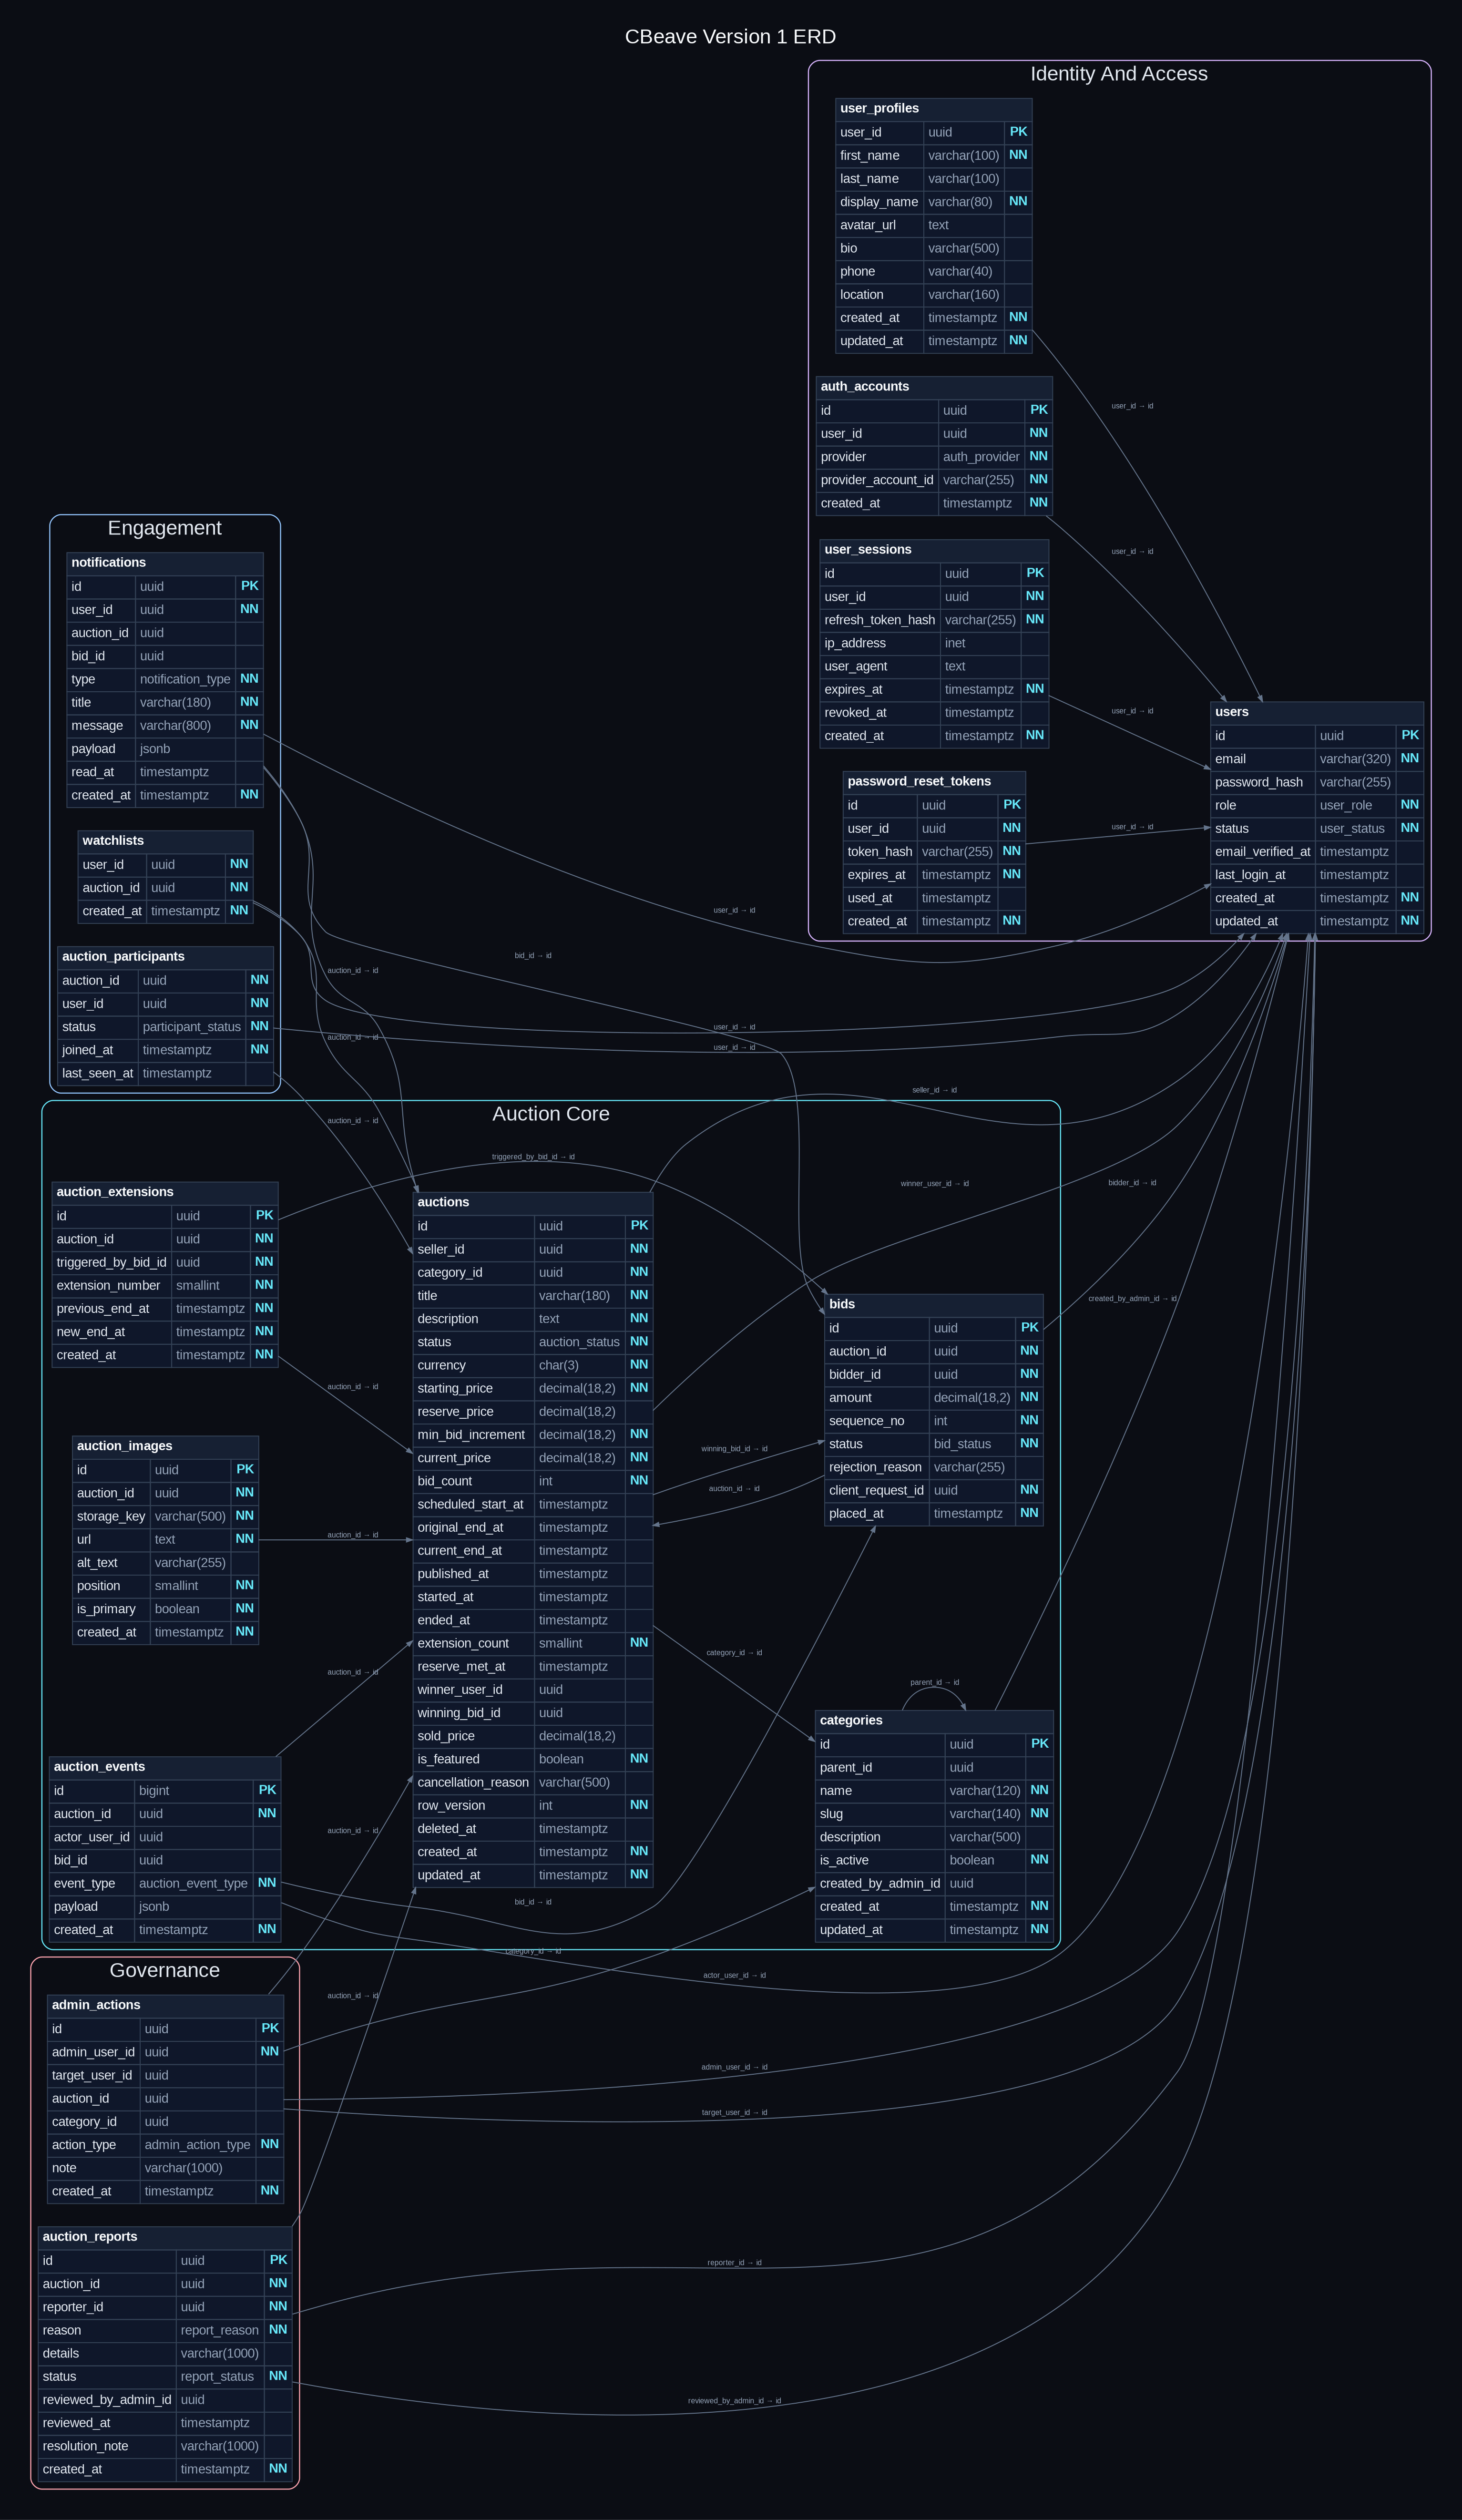
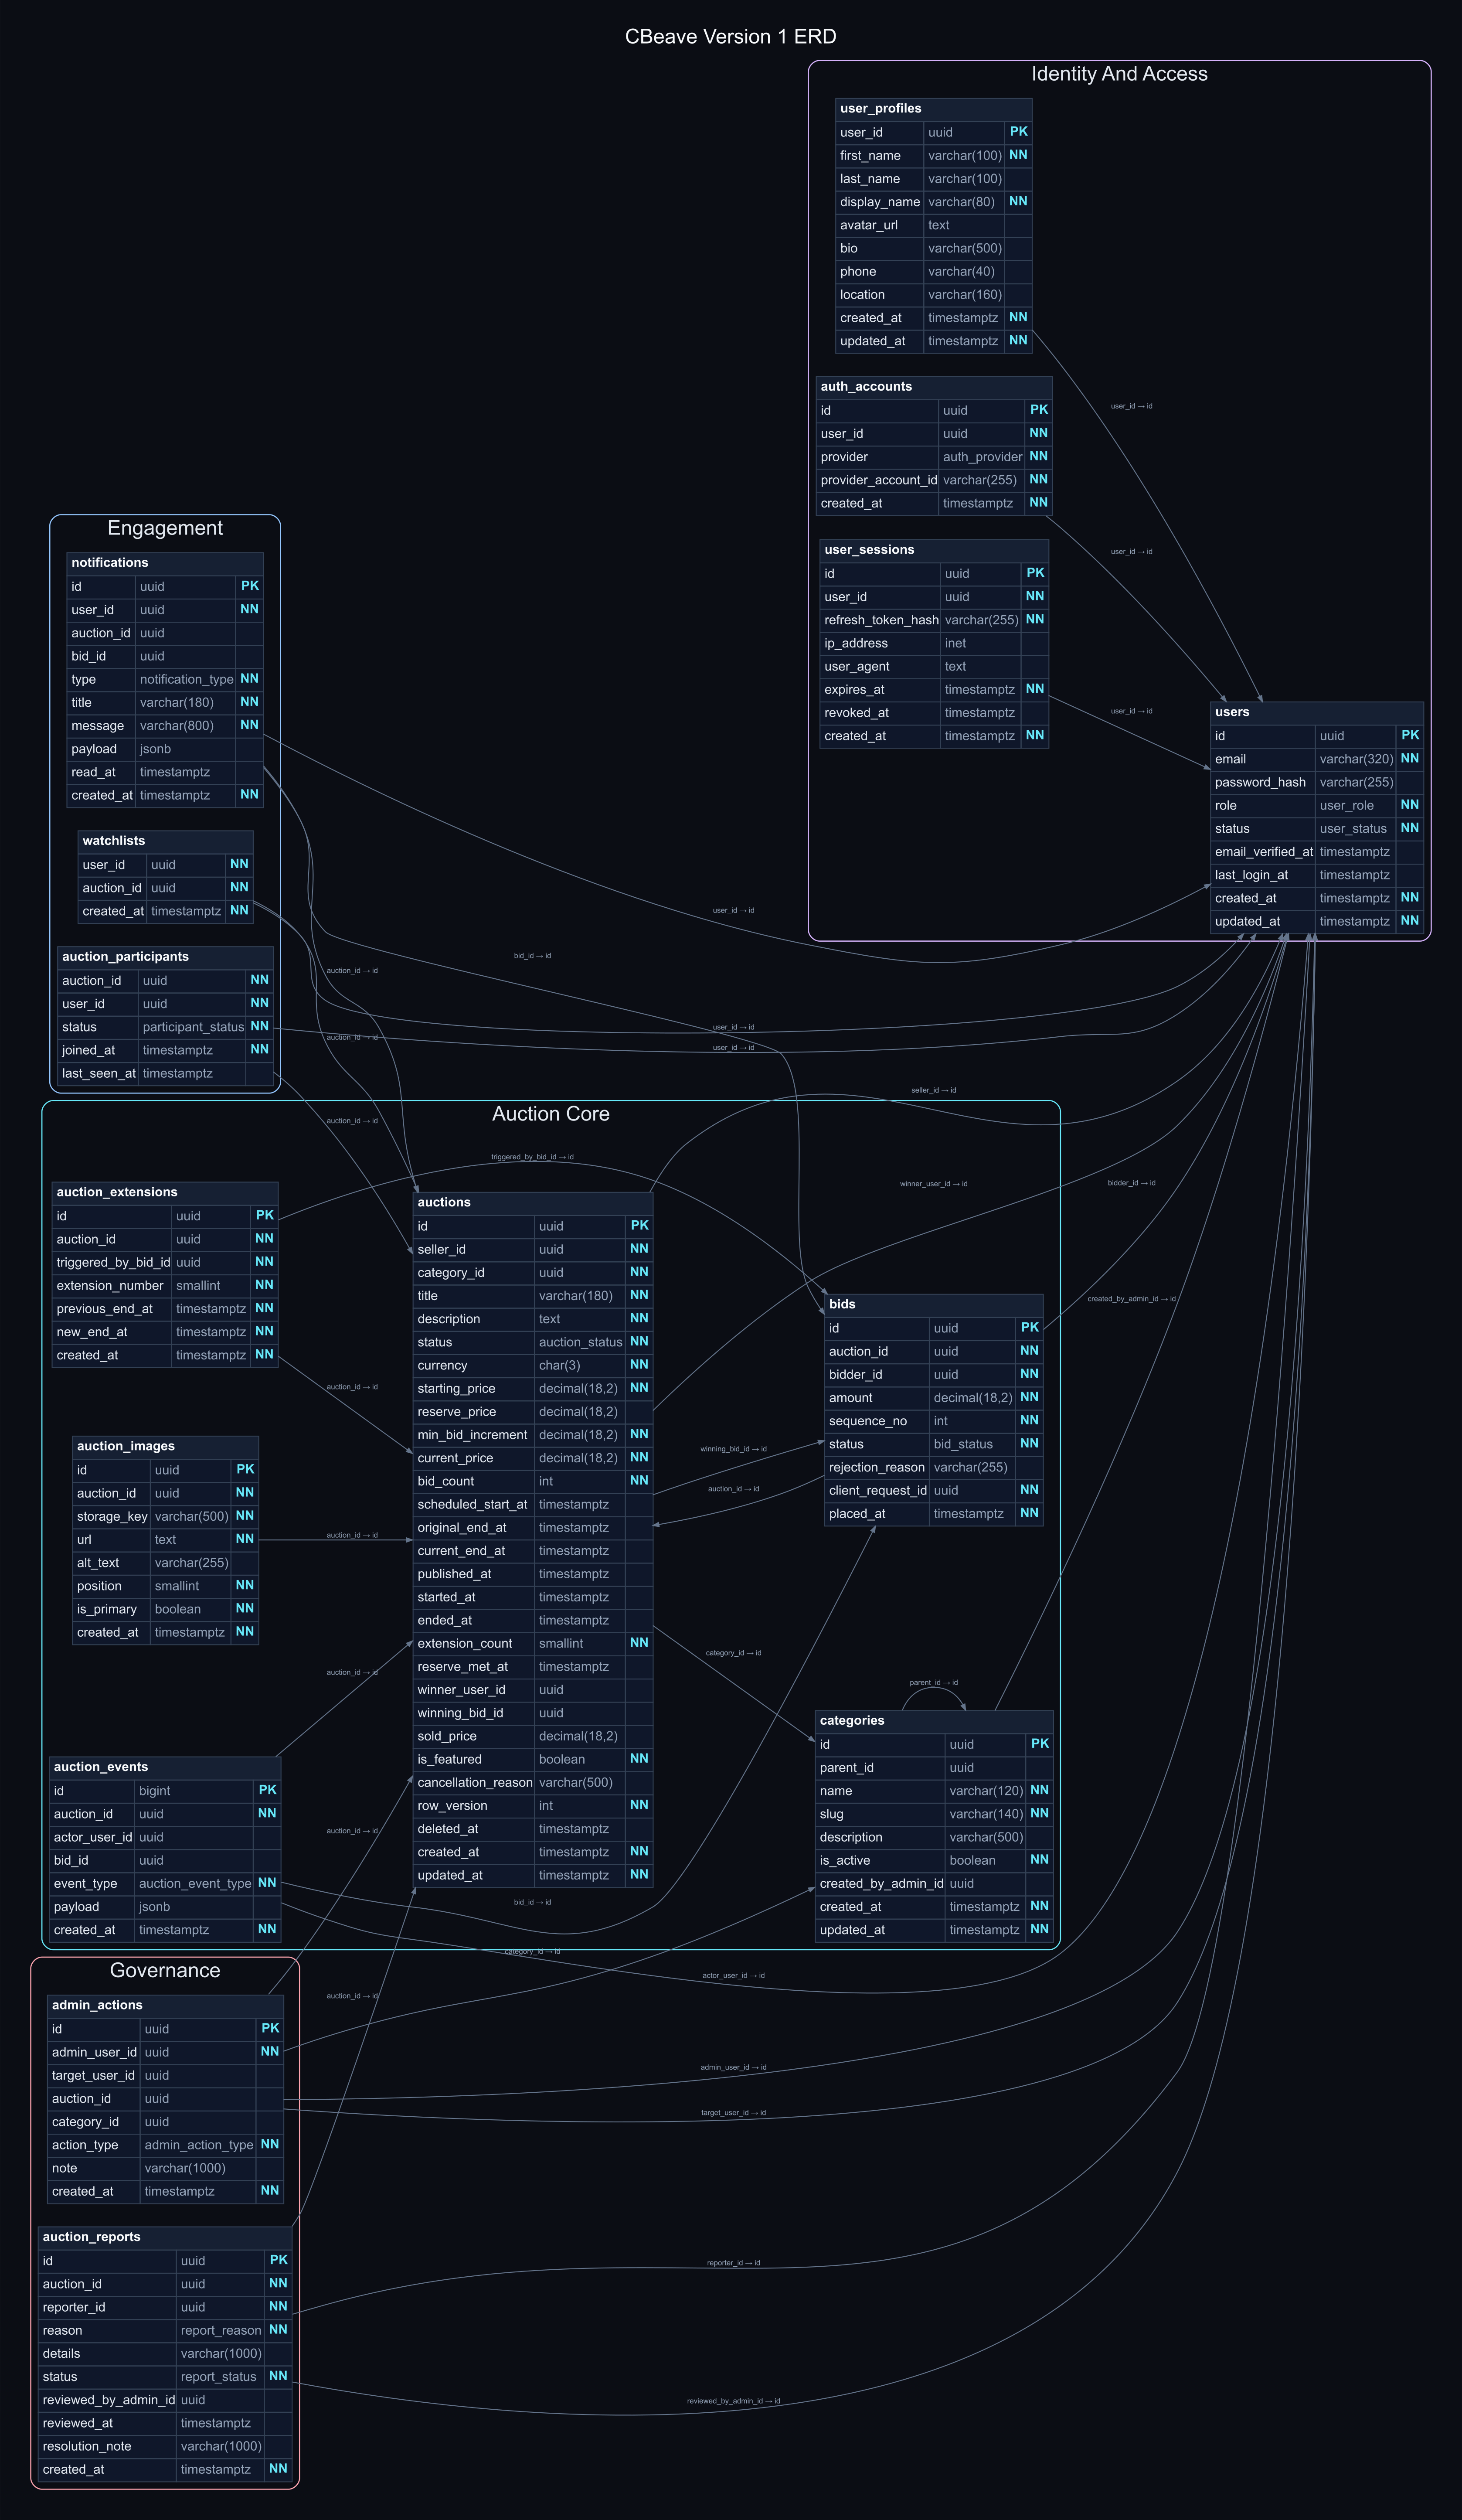
docs: simplify v1 authentication and moderation scope

diff --git a/docs/architecture/adr/0001-core-domain-decisions.md b/docs/architecture/adr/0001-core-domain-decisions.md
@@ -18,6 +18,7 @@ The original SRS, Figma prototype, Version 1 ERD, and full future-state ERD used
 - A User cannot bid on an auction they own.
 - An Admin cannot create marketplace auctions or bid.
 - Version 1 supports email/password and Google login only.
+- Forgot-password recovery and external reset-email delivery are deferred beyond Version 1.
 - User profiles store required `first_name` and optional `last_name`; a separate editable `full_name` is not persisted.
 - The application derives full name when needed, while `display_name` remains the independent public identity used in auctions and Live Arena.
 
@@ -47,9 +48,15 @@ The original SRS, Figma prototype, Version 1 ERD, and full future-state ERD used
 
 The delivery includes Google login, Watchlist, in-app outbid notification, a bounded polished Live Arena, and auction reporting.
 
+### Administration and audit
+
+- Version 1 audit actions cover user suspension/reactivation, auction cancellation, category creation/update/deactivation, and report resolution.
+- Categories referenced by auctions are deactivated rather than destructively deleted.
+- Auction reinstatement is deferred because Version 1 does not define a safe reinstatement transition after cancellation, scheduling, or bidding activity.
+
 ### Deferred architecture
 
-The complete ERD remains a future-state reference. Payments, orders, shipping, payouts, disputes, messaging, reviews, storefronts, multi-channel notifications, mobile apps, and advanced analytics are not implemented in this milestone.
+The complete ERD remains a future-state reference. Password recovery, external email delivery, payments, orders, shipping, payouts, disputes, messaging, reviews, storefronts, multi-channel notifications, mobile apps, and advanced analytics are not implemented in this milestone.
 
 ## Consequences
 
@@ -63,7 +70,7 @@ The complete ERD remains a future-state reference. Payments, orders, shipping, p
 
 ### Trade-offs
 
-- Facebook login and Buy Now are postponed.
+- Facebook login, password recovery, external email delivery, and Buy Now are postponed.
 - Live Arena polish is bounded by time and accessibility.
 - Auction reports are moderation reports, not analytical reports.
 - The future ERD may change before its modules are implemented.

diff --git a/docs/requirements/SRS-v1.1.md b/docs/requirements/SRS-v1.1.md
@@ -70,7 +70,7 @@ An Administrator may not:
 
 ### 3.1 Required capabilities
 
-- Email/password registration, login, logout, password reset, and JWT sessions
+- Email/password registration, login, logout, and JWT sessions
 - Google login
 - User profile management
 - Category browsing and administrator category management
@@ -92,6 +92,7 @@ An Administrator may not:
 ### 3.2 Explicit exclusions
 
 - Facebook login
+- Forgot-password recovery and external reset-email delivery
 - Buy Now
 - Payments, refunds, disputes, and seller payouts
 - Orders and shipping
@@ -137,9 +138,9 @@ A User can register or log in through Google. A Google identity must be linked u
 
 Refresh tokens must be stored as hashes, have an expiry, and support revocation on logout.
 
-### AUTH-005 — Password reset
+### AUTH-005 — Password reset (Deferred)
 
-A local account can request and complete a time-limited, single-use password reset.
+Forgot-password recovery is deferred beyond Version 1 because the release does not include external email delivery. Version 1 must not expose reset tokens through API responses or production logs. Authenticated password changes may be added separately without introducing email-based recovery.
 
 ## 6. User profile requirements
 

diff --git a/docs/architecture/erd/comparison.md b/docs/architecture/erd/comparison.md
@@ -7,7 +7,7 @@
 
 ## Version 1 tables
 
-- Identity: `users`, `user_profiles`, `auth_accounts`, `user_sessions`, `password_reset_tokens`
+- Identity: `users`, `user_profiles`, `auth_accounts`, `user_sessions`
 - Auction core: `categories`, `auctions`, `auction_images`, `bids`, `auction_extensions`, `auction_events`
 - Engagement: `watchlists`, `auction_participants`, `notifications`
 - Governance: `auction_reports`, `admin_actions`
@@ -16,12 +16,14 @@
 
 - Only `USER` and `ADMIN` are persisted roles.
 - Google is the only social provider in scope.
+- Forgot-password recovery and external reset-email delivery are deferred.
 - Preview and Publish are not statuses.
 - Canonical statuses are Draft, Scheduled, Active, Sold, Unsold, and Cancelled.
 - Minimum bid increment is required.
 - Reserve amount is private.
 - Buy Now is absent from the Version 1 model.
 - Auction reports mean trust-and-safety reports, not analytics reports.
+- Administrator audit actions use category deactivation rather than deletion, and auction reinstatement is deferred.
 
 ## Future-only domains
 
@@ -31,6 +33,7 @@
 - Shipping and tracking
 - Messaging and reviews
 - Multi-channel notification delivery
+- Forgot-password recovery and `password_reset_tokens`
 - Seller storefronts
 - Advanced analytics
 

diff --git a/docs/requirements/REQUIREMENTS_TRACEABILITY.md b/docs/requirements/REQUIREMENTS_TRACEABILITY.md
@@ -5,13 +5,14 @@ Status values:
 - **Planned** — not implemented yet
 - **In progress** — implementation started
 - **Verified** — acceptance test passes
+- **Deferred** — intentionally outside the current implementation scope
 
 | Requirement | Priority | ERD tables | Planned backend location | Planned frontend location | Verification | Status |
 |---|:---:|---|---|---|---|---|
 | AUTH-001 Local registration | P0 | `users`, `user_profiles.first_name`, `user_profiles.last_name`, `user_profiles.display_name` | `apps/api/src/auth` | `apps/web/app/(auth)` | Registration E2E including single-name and two-part-name cases | Planned |
 | AUTH-002 Local login | P0 | `users`, `user_sessions` | `apps/api/src/auth` | `apps/web/app/(auth)` | Login/session E2E | Planned |
 | AUTH-003 Google login | P1 | `users`, `auth_accounts`, `user_sessions` | `apps/api/src/auth/google` | Google auth callback | Google login integration | Planned |
-| AUTH-005 Password reset | P0 | `password_reset_tokens` | `apps/api/src/auth/password-reset` | Forgot/reset pages | Token expiry/reuse tests | Planned |
+| AUTH-005 Password reset | Deferred | Future-state `password_reset_tokens` | Not planned for V1 | Not planned for V1 | Future requirement | Deferred |
 | USR-001 Profile | P0 | `user_profiles.first_name`, `user_profiles.last_name`, `user_profiles.display_name` | `apps/api/src/users` | Profile page | Profile update and derived-full-name tests | Planned |
 | CAT-001 Category management | P0 | `categories`, `admin_actions` | `apps/api/src/categories` | Browse/admin category UI | CRUD and deactivation tests | Planned |
 | AUC-001 Create draft | P0 | `auctions`, `auction_images` | `apps/api/src/auctions` | Create auction flow | Draft ownership E2E | Planned |

diff --git a/CHANGELOG.md b/CHANGELOG.md
@@ -25,6 +25,8 @@ The format follows Keep a Changelog principles. Product releases will use semant
 - Replaced persisted `user_profiles.full_name` with required `first_name` and optional `last_name`; full name is derived while `display_name` remains the public identity.
 - Limited Version 1 social authentication to Google login.
 - Added Watchlist, in-app outbid notification, bounded Live Arena polish, and auction reporting to the one-month scope.
+- Deferred forgot-password recovery and external reset-email delivery; removed `password_reset_tokens` and `RESET_PASSWORD` from the Version 1 data model while retaining them in the future-state reference.
+- Simplified Version 1 administrator audit actions by deferring auction reinstatement and replacing destructive category deletion with category deactivation.
 - Deferred Buy Now, payments, shipping, messaging, reviews, storefronts, native applications, PWA support, and advanced analytics.
 
 > This entry records approved documentation and scope changes. It does not claim that application features are already implemented.

diff --git a/docs/requirements/SRS_CHANGELOG.md b/docs/requirements/SRS_CHANGELOG.md
@@ -29,6 +29,8 @@ Status: **Approved for implementation**
 | ID | Change | Previous position | Updated decision | Impact |
 |---|---|---|---|---|
 | CHG-015 | User profile name structure | `user_profiles.full_name` stored as one required field | Replace it with required `first_name` and optional `last_name`; derive the full name in the application; retain independent `display_name` | Supports single-name users, OAuth profile data, and avoids duplicated/inconsistent full-name storage |
+| CHG-016 | Password recovery | Password reset and `password_reset_tokens` were required in Version 1 despite external email delivery being excluded | Defer forgot-password recovery, reset-email delivery, the V1 token table, and the related admin action; retain the design in the future-state model | Removes an external integration from the one-month scope and keeps the core authentication and auction journey focused |
+| CHG-017 | Administrator audit actions | The V1 ERD allowed auction reinstatement and destructive category deletion without corresponding safe workflows | Remove `REINSTATE_AUCTION` from V1 and replace `DELETE_CATEGORY` with `DEACTIVATE_CATEGORY`; retain broader actions only in the future-state model | Aligns audit values with implemented moderation behavior and prevents unsafe lifecycle or category operations |
 
 ## Migration note
 

diff --git a/PROJECT_ROADMAP.md b/PROJECT_ROADMAP.md
@@ -120,6 +120,7 @@ The following are polish-only and may be reduced when the schedule is at risk:
 
 ### Version 2
 
+- Forgot-password recovery and transactional reset-email delivery
 - Payment gateway and orders
 - Shipping and fulfilment
 - Email/push notification channels